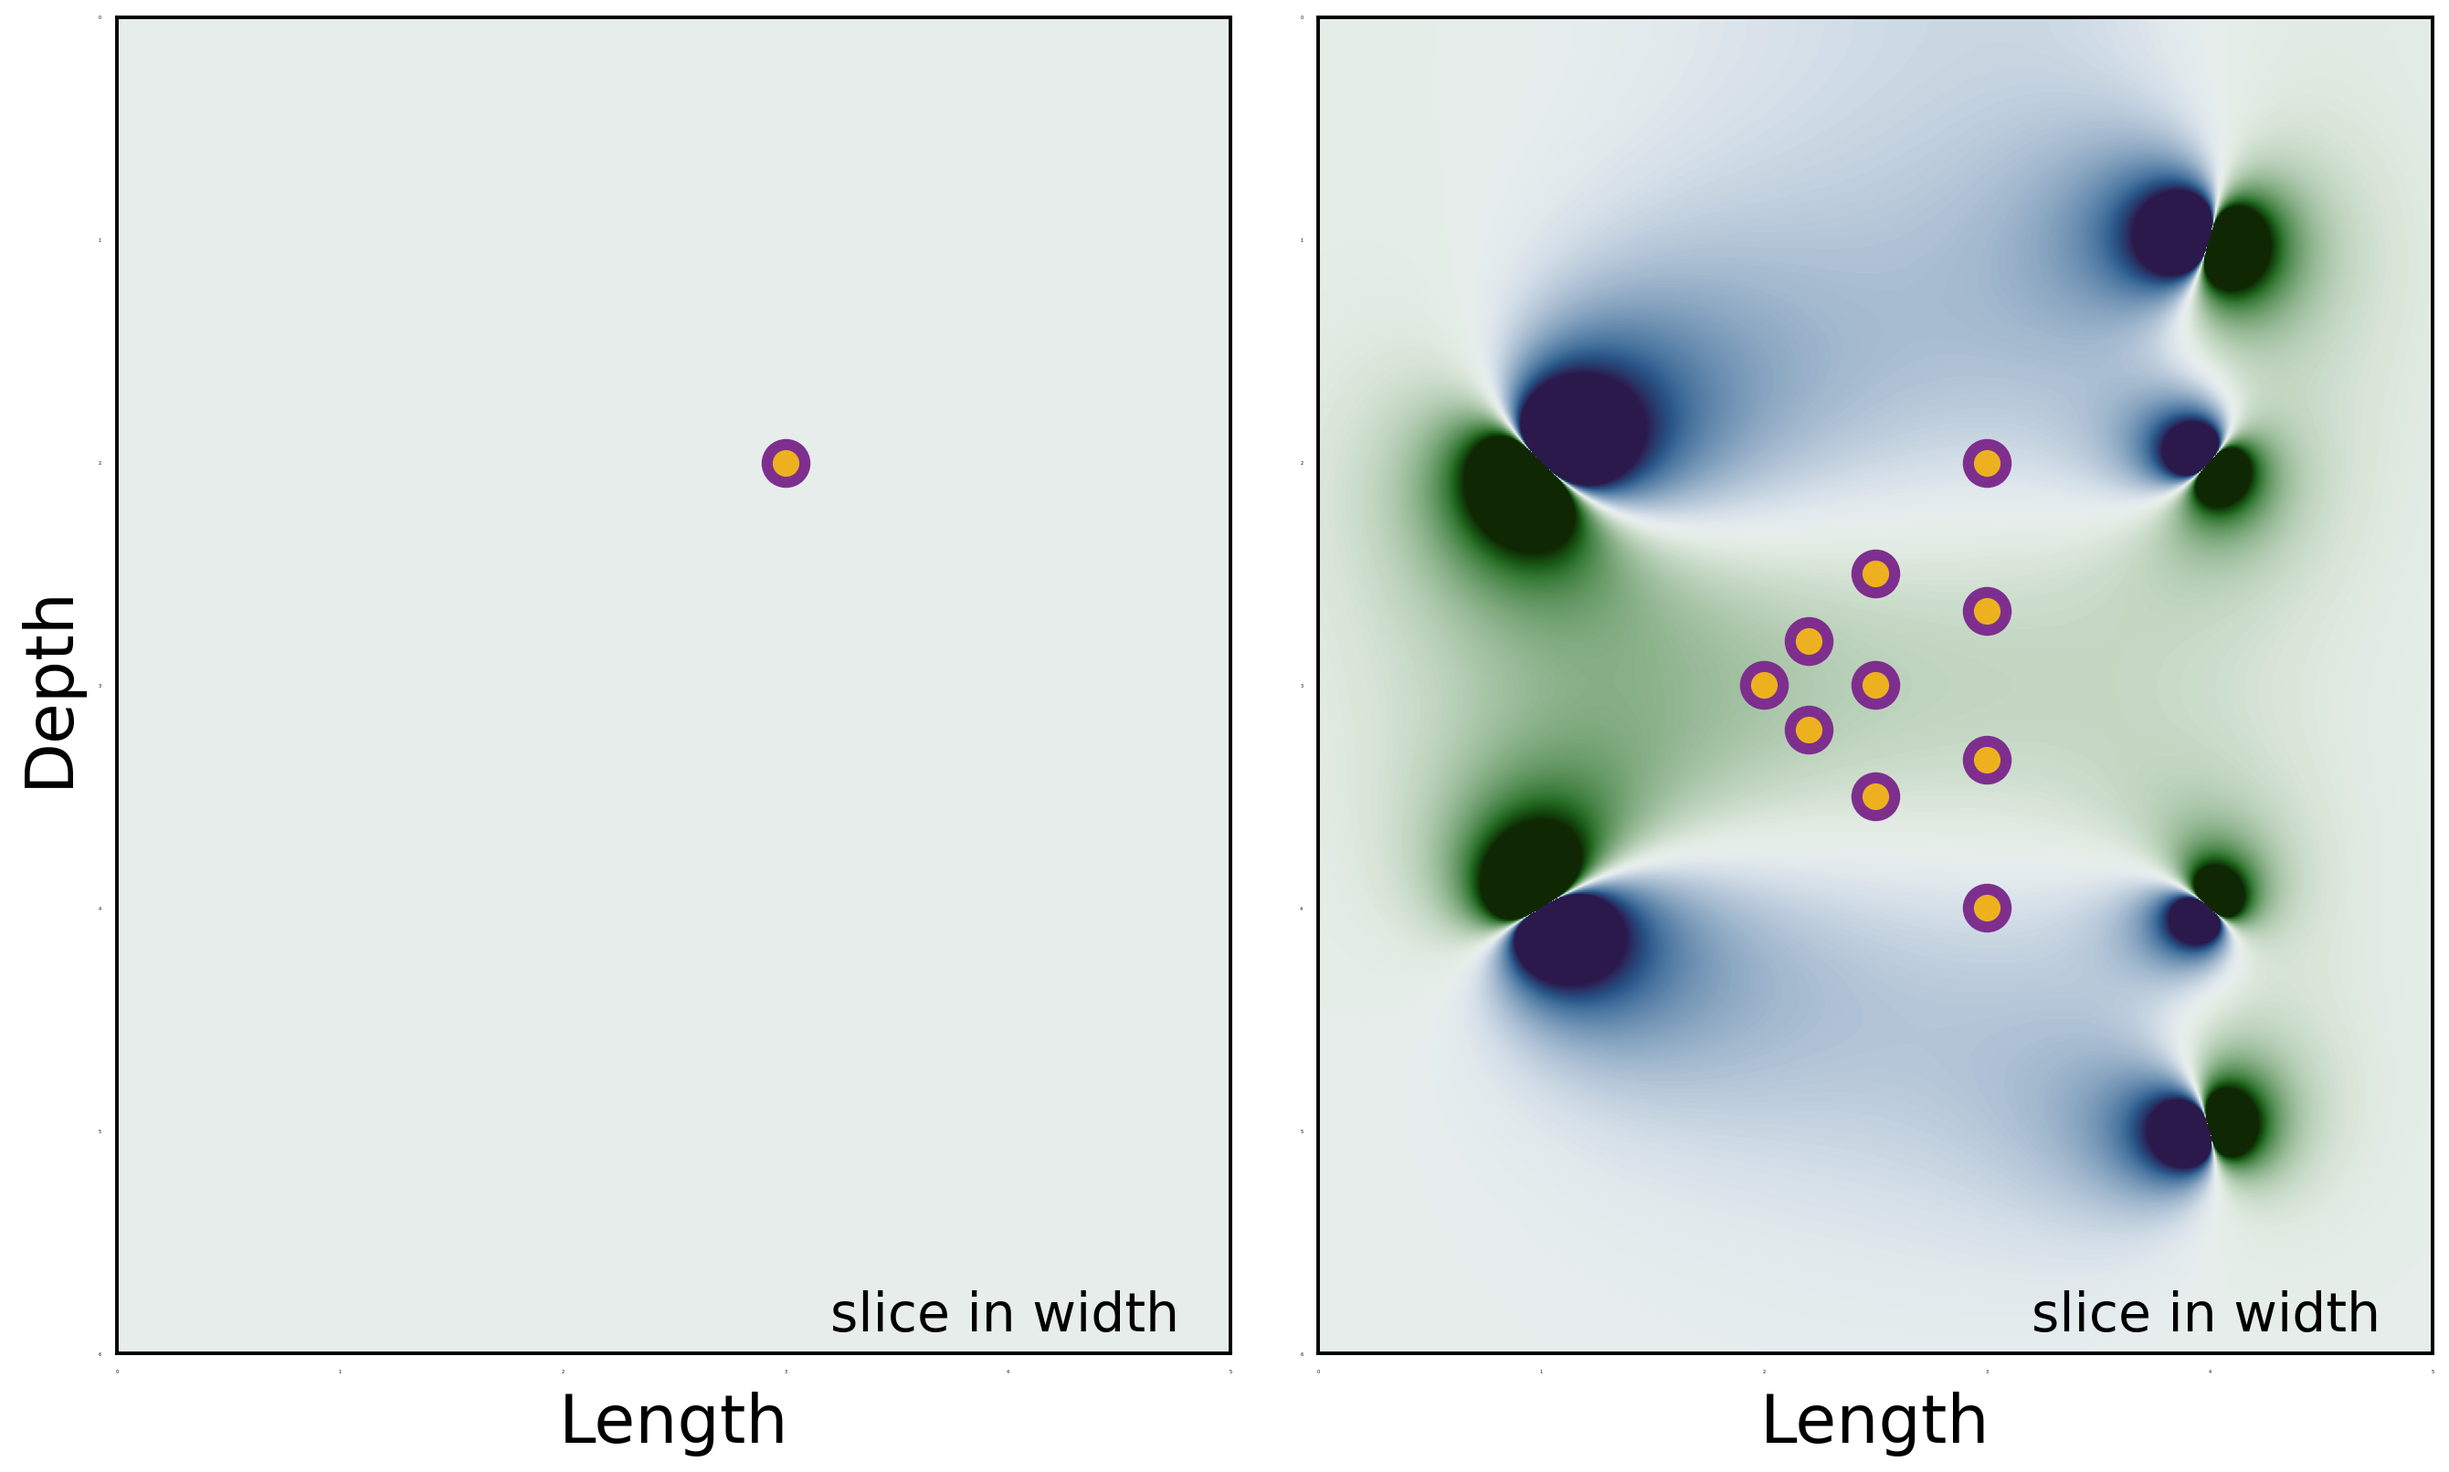
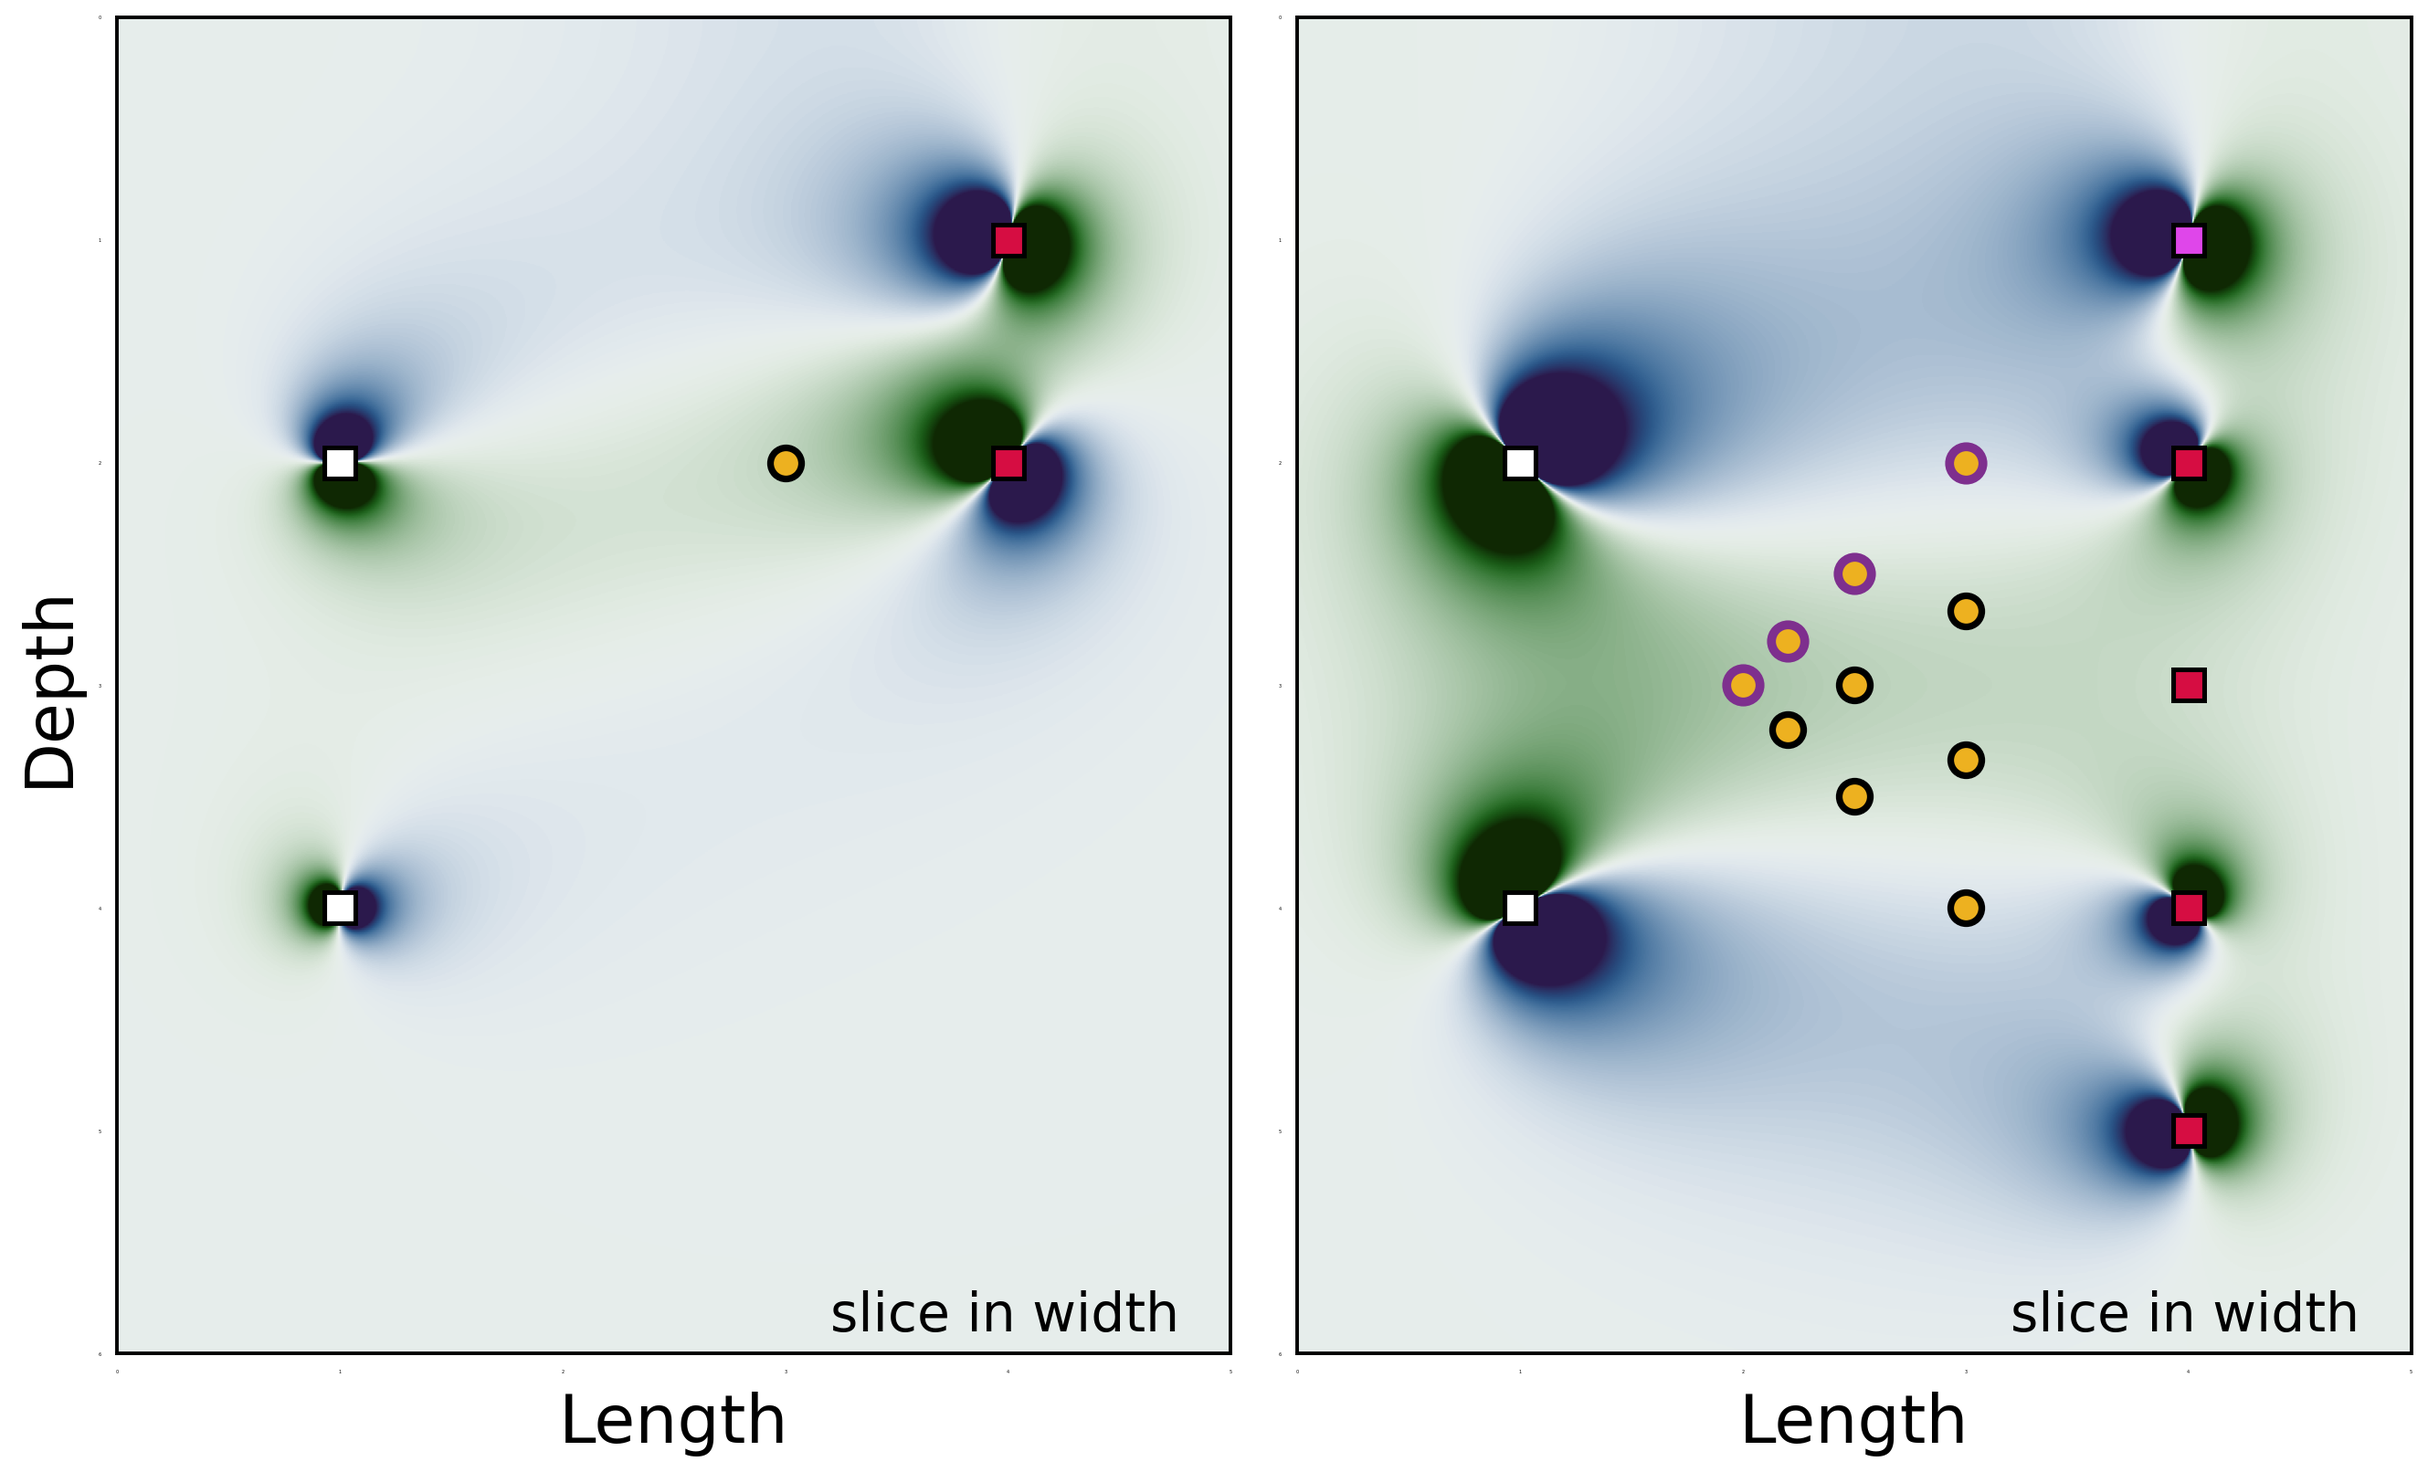
🏈

diff --git a/projects/pdes/dc-xbore-vis/pseudo_visimple.py b/projects/pdes/dc-xbore-vis/pseudo_visimple.py
@@ -46,8 +46,20 @@ pseud = pseud.T
 
 niabmn = np.fromfile(path_read+'iabmn_size.bin',dtype=int)
 niabmn = niabmn[0]
-iabmn = np.fromfile(path_read+'iabmn.bin',dtype=int)
+iabmn  = np.fromfile(path_read+'iabmn.bin',dtype=int)
 iabmn1 = np.fromfile(path_read+'iabmn1.bin',dtype=int)
+
+nsrc = np.fromfile(path_read+'src_size.bin',dtype=int)
+nsrc = nsrc[0]
+src  = np.fromfile(path_read+'src.bin',dtype=int)
+nrecs= np.fromfile(path_read+'recs_size.bin',dtype=int)
+nrecs= nrecs[0]
+recs = np.fromfile(path_read+'recs.bin',dtype=int)
+recs = np.reshape(recs,(2,nrecs))
+nelectrxyz = np.fromfile(path_read+'electrxyz_size.bin',dtype=int)
+nelectrxyz= nelectrxyz[0]
+electrxyz = np.fromfile(path_read+'electrxyz.bin',dtype=float)
+electrxyz = np.reshape(electrxyz,(2,nelectrxyz))
 # ------------------------------------------------------------------------------
 #                                 🚧🎨
 # ------------------------------------------------------------------------------
@@ -68,7 +80,9 @@ height_max= z[nz-1]
 
 wi,he = figaspect(nrows*width_max/(ncols*height_max))
 # ------------------------------------------------------------------------------
-#                                 🎨🎨
+#                                   🎨🎨
+#                                   🎨🎨
+#                                   🎨🎨
 # ------------------------------------------------------------------------------
 plt_=fancy_figure(data=np.zeros((2,2)),holdon='close',colorbaron='off').matrix()
 
@@ -85,7 +99,7 @@ ax_=ax0,
 x=x,
 y=z,
 extent=extents_xz,
-data=0*psi1_,
+data=psi1_,
 midi=midi,
 vmin=mini,
 vmax=maxi,
@@ -104,8 +118,8 @@ curve=pseud[iabmn1-1,1],
 x=pseud[iabmn1-1,0],
 ax_accu="%.0f",
 symbol='.',
-markersize=20,
-colop=((0.4940,0.1840,0.5560)),
+markersize=15,
+colop=((0,0,0)),
 holdon='on'
 ).plotter()
 #
@@ -115,8 +129,95 @@ curve=pseud[iabmn1-1,1],
 x=pseud[iabmn1-1,0],
 ax_accu="%.0f",
 symbol='.',
-markersize=10,
+markersize=9,
 colop=((0.9290,0.6940,0.1250)),
+holdon='on'
+).plotter()
+# ------------------------------------------------------------------------------
+#                                   🐘 electrxyz 🐘
+# ------------------------------------------------------------------------------
+# 𝐚
+fancy_figure(
+ax_=ax0,
+curve=electrxyz[1,src[0]-1],
+x=electrxyz[0,src[0]-1],
+ax_accu="%.0f",
+symbol='s',
+markersize=7,
+colop=((0,0,0)),
+holdon='on'
+).plotter()
+fancy_figure(
+ax_=ax0,
+curve=electrxyz[1,src[0]-1],
+x=electrxyz[0,src[0]-1],
+ax_accu="%.0f",
+symbol='s',
+markersize=5,
+colop=((1,1,1)),
+holdon='on'
+).plotter()
+# 𝐛
+fancy_figure(
+ax_=ax0,
+curve=electrxyz[1,src[1]-1],
+x=electrxyz[0,src[1]-1],
+ax_accu="%.0f",
+symbol='s',
+markersize=7,
+colop=((0,0,0)),
+holdon='on'
+).plotter()
+fancy_figure(
+ax_=ax0,
+curve=electrxyz[1,src[1]-1],
+x=electrxyz[0,src[1]-1],
+ax_accu="%.0f",
+symbol='s',
+markersize=5,
+colop=((1,1,1)),
+holdon='on'
+).plotter()
+# 𝐦
+fancy_figure(
+ax_=ax0,
+curve=electrxyz[1,recs[0,0]-1],
+x=electrxyz[0,recs[0,0]-1],
+ax_accu="%.0f",
+symbol='s',
+markersize=7,
+colop=((0,0,0)),
+holdon='on'
+).plotter()
+fancy_figure(
+ax_=ax0,
+curve=electrxyz[1,recs[0,0]-1],
+x=electrxyz[0,recs[0,0]-1],
+ax_accu="%.0f",
+symbol='s',
+markersize=5,
+colop=((0.84,0.05,0.26)),
+holdon='on'
+).plotter()
+# 𝐧
+fancy_figure(
+ax_=ax0,
+curve=electrxyz[1,recs[1,0]-1],
+x=electrxyz[0,recs[1,0]-1],
+ax_accu="%.0f",
+symbol='s',
+markersize=7,
+colop=((0,0,0)),
+holdon='on'
+).plotter()
+fancy_figure(
+ax_=ax0,
+curve=electrxyz[1,recs[1,0]-1],
+x=electrxyz[0,recs[1,0]-1],
+ax_accu="%.0f",
+symbol='s',
+markersize=5,
+colop=((0.84,0.05,0.26)),
 xlabel='Length',
 ylabel='Depth',
 holdon='on'
@@ -141,6 +242,116 @@ holdon='on'
 # ------------------------------------------------------------------------------
 ax1.annotate("slice in width",xy=(3.2,5.9),fontsize=fontsize_,color=colo_txt,ha='left')
 # ------------------------------------------------------------------------------
+#                                   🐘 electrxyz 🐘
+# ------------------------------------------------------------------------------
+# 𝐚
+fancy_figure(
+ax_=ax1,
+curve=electrxyz[1,src[0]-1],
+x=electrxyz[0,src[0]-1],
+ax_accu="%.0f",
+symbol='s',
+markersize=7,
+colop=((0,0,0)),
+holdon='on'
+).plotter()
+fancy_figure(
+ax_=ax1,
+curve=electrxyz[1,src[0]-1],
+x=electrxyz[0,src[0]-1],
+ax_accu="%.0f",
+symbol='s',
+markersize=5,
+colop=((1,1,1)),
+holdon='on'
+).plotter()
+# 𝐛
+fancy_figure(
+ax_=ax1,
+curve=electrxyz[1,src[1]-1],
+x=electrxyz[0,src[1]-1],
+ax_accu="%.0f",
+symbol='s',
+markersize=7,
+colop=((0,0,0)),
+holdon='on'
+).plotter()
+fancy_figure(
+ax_=ax1,
+curve=electrxyz[1,src[1]-1],
+x=electrxyz[0,src[1]-1],
+ax_accu="%.0f",
+symbol='s',
+markersize=5,
+colop=((1,1,1)),
+holdon='on'
+).plotter()
+for irec in range(0,nrecs):
+    # 𝐦
+    fancy_figure(
+    ax_=ax1,
+    curve=electrxyz[1,recs[0,irec]-1],
+    x=electrxyz[0,recs[0,irec]-1],
+    ax_accu="%.0f",
+    symbol='s',
+    markersize=7,
+    colop=((0,0,0)),
+    holdon='on'
+    ).plotter()
+    fancy_figure(
+    ax_=ax1,
+    curve=electrxyz[1,recs[0,irec]-1],
+    x=electrxyz[0,recs[0,irec]-1],
+    ax_accu="%.0f",
+    symbol='s',
+    markersize=5,
+    colop=((0.84,0.05,0.26)),
+    holdon='on'
+    ).plotter()
+    # 𝐧
+    fancy_figure(
+    ax_=ax1,
+    curve=electrxyz[1,recs[1,irec]-1],
+    x=electrxyz[0,recs[1,irec]-1],
+    ax_accu="%.0f",
+    symbol='s',
+    markersize=7,
+    colop=((0,0,0)),
+    holdon='on'
+    ).plotter()
+    fancy_figure(
+    ax_=ax1,
+    curve=electrxyz[1,recs[1,irec]-1],
+    x=electrxyz[0,recs[1,irec]-1],
+    ax_accu="%.0f",
+    symbol='s',
+    markersize=5,
+    colop=((0.84,0.05,0.26)),
+    holdon='on'
+    ).plotter()
+# 𝐦
+fancy_figure(
+ax_=ax1,
+curve=electrxyz[1,recs[0,1]-1],
+x=electrxyz[0,recs[0,1]-1],
+ax_accu="%.0f",
+symbol='s',
+markersize=7,
+colop=((0,0,0)),
+holdon='on'
+).plotter()
+fancy_figure(
+ax_=ax1,
+curve=electrxyz[1,recs[0,1]-1],
+x=electrxyz[0,recs[0,1]-1],
+ax_accu="%.0f",
+symbol='s',
+markersize=5,
+# colop=((0.4940,0.1840,0.5560)),
+colop=((0.8745,0.2745,0.9176)),
+holdon='on'
+).plotter()
+# ------------------------------------------------------------------------------
 #  pseudolocs
 fancy_figure(
 ax_=ax1,
@@ -148,10 +359,22 @@ curve=pseud[iabmn-1,1],
 x=pseud[iabmn-1,0],
 ax_accu="%.0f",
 symbol='.',
-markersize=20,
-colop=((0.4940,0.1840,0.5560)),
+markersize=15,
+colop=((0,0,0)),
 holdon='on'
 ).plotter()
+#
+for iabmn_ in range(0,4):
+    fancy_figure(
+    ax_=ax1,
+    curve=pseud[iabmn[iabmn_]-1,1],
+    x=pseud[iabmn[iabmn_]-1,0],
+    ax_accu="%.0f",
+    symbol='.',
+    markersize=17,
+    colop=((0.4940,0.1840,0.5560)),
+    holdon='on'
+    ).plotter()
 #
 fancy_figure(
 ax_=ax1,
@@ -159,10 +382,9 @@ curve=pseud[iabmn-1,1],
 x=pseud[iabmn-1,0],
 ax_accu="%.0f",
 symbol='.',
-markersize=10,
+markersize=9,
 colop=((0.9290,0.6940,0.1250)),
 xlabel='Length',
-# ylabel='Depth',
 guarda_path=guarda_path,
 guarda=dpi,
 fig_name='figo'
@@ -193,5 +415,11 @@ nh,_=im.size
 im_ = fancy_image(im=im_,nh=nh,nh_r=int(1.5*dpi)).padder_h()
 im  = fancy_image(im=im,im_=im_).concat_v()
 # im.show()
-im.save(guarda_path+"sensis-paper-.png","PNG", dpi=dpii)
+im.save(guarda_path+"sensis-paper.png","PNG", dpi=dpii)
+# ------------------------------------------------------------------------------
+print('')
+print('')
+print('     just finished the 🎨👨🏻🎨')
+print('')
+print('')
 # ------------------------------------------------------------------------------
